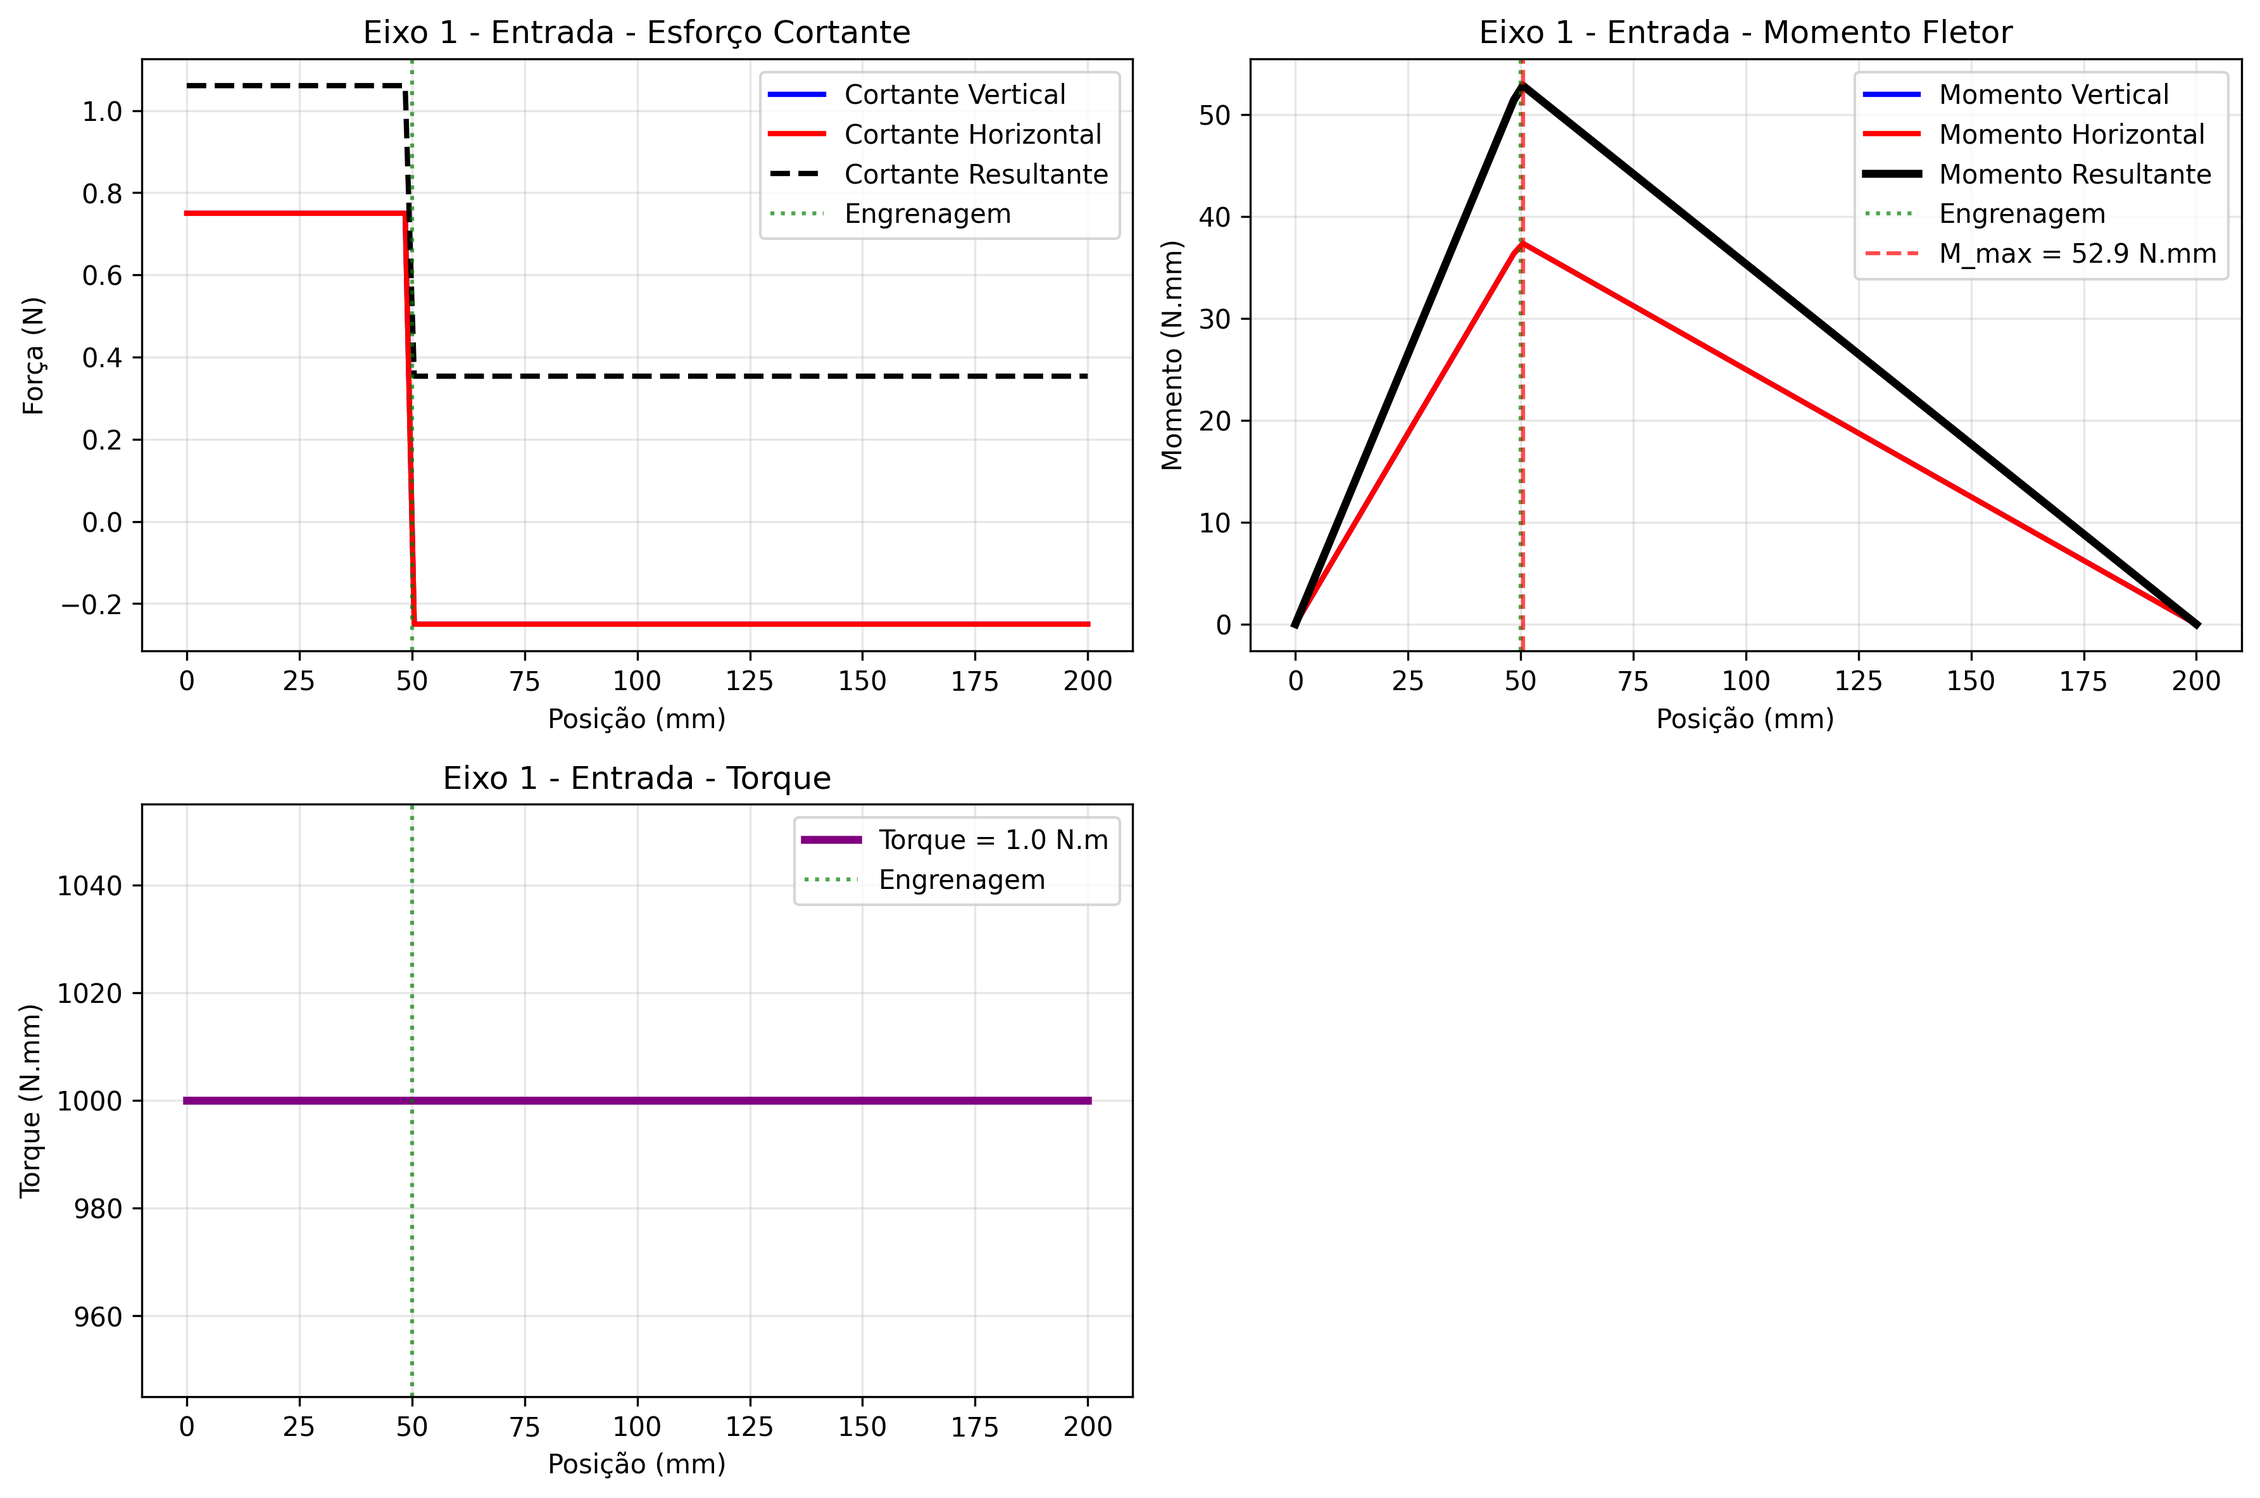
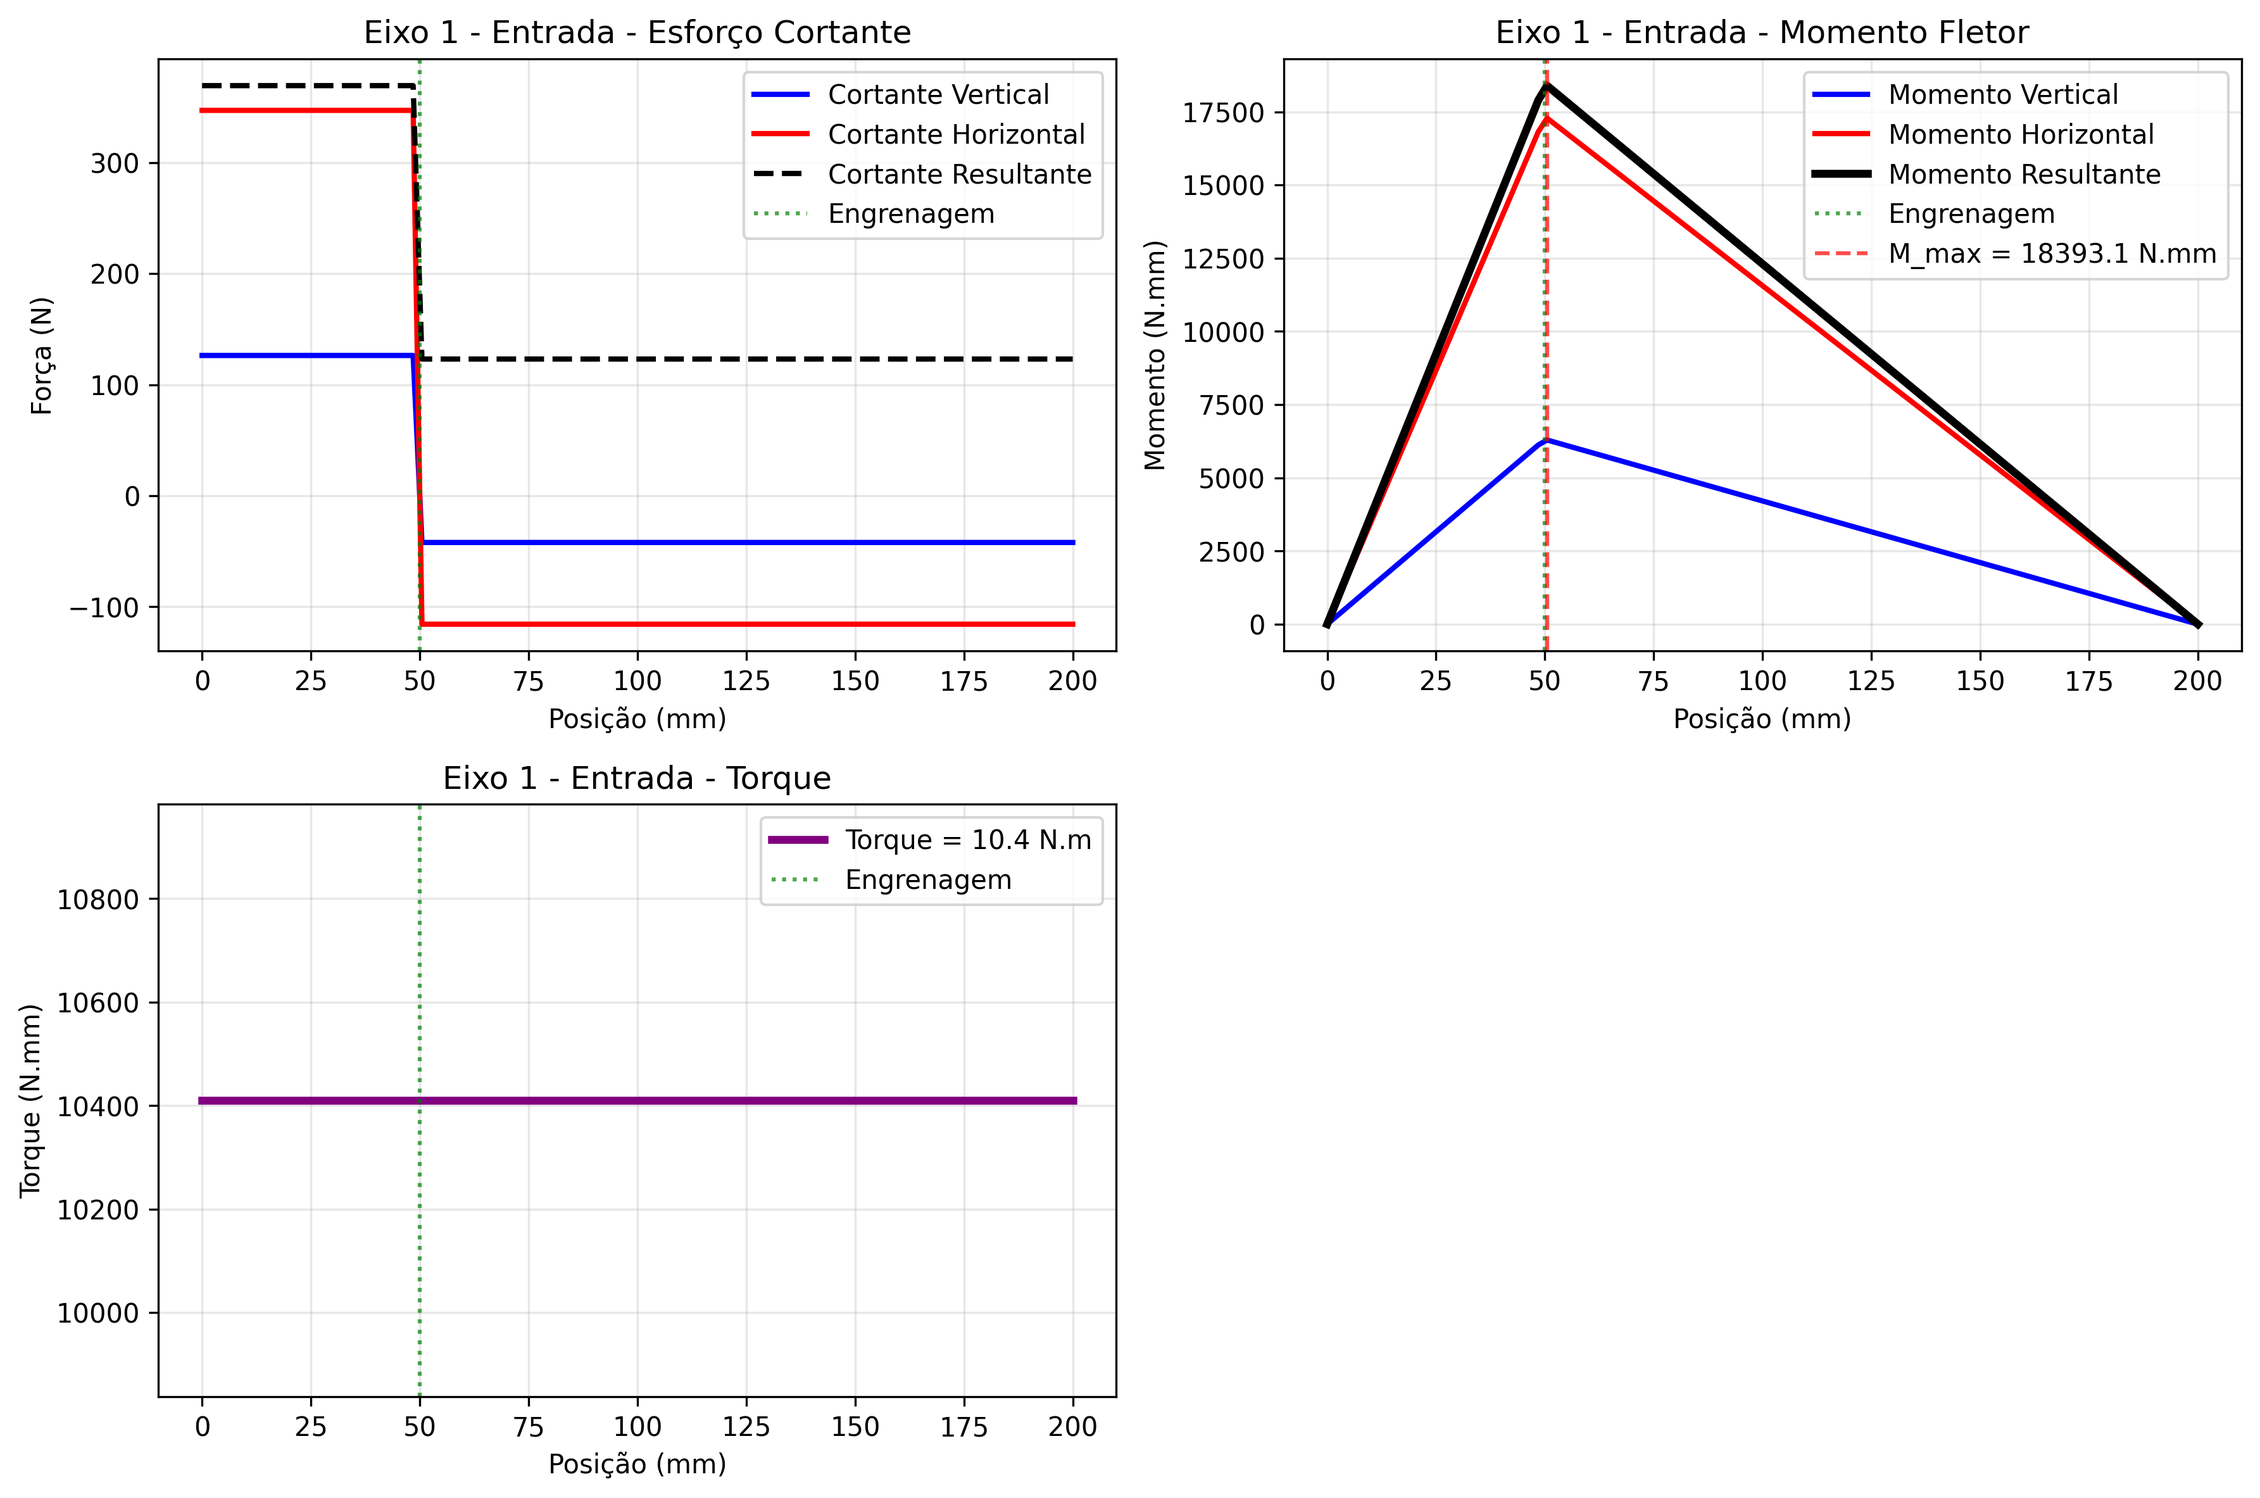
Ajustados valores de momentos e tensoes nos eixos

diff --git a/contas_eixo.py b/contas_eixo.py
@@ -4,6 +4,12 @@ import numpy as np
 
 parametros = util.ler_Estagios_Engrenagem('Outputs/Estagios_Engrenagem.txt')
 
+parametros = {
+            'parametros_eixos':{"Rotacao eixo1": 1450.0,"Torque_eixo1": 10.41,"Forca Tangencial (W_t1)": 462.46,"Forca Radial (W_r1)": 168.32," Rotacao eixo2": 395.5,"Torque_eixo2": 35.18,"Forca Tangencial (W_t_c1)": 462.46, "Forca Radial (W_r_c1)": 168.32,"Forca Tangencial (W_t_p2)": 977.10,"Forca Radial (W_r_p2)": 355.64,"Rotacao eixo3": 107.9, "Torque_eixo3": 118.91,"Forca Tangencial (W_t_c2)": 977.10,"Forca Radial (W_r_c2)": 355.64},
+}
+
+
+
 # Aço AISI 1020 Normalizado
 S_ut = 469  # MPa - Tensão de ruptura
 S_y = 390   # MPa - Tensão de escoamento
@@ -26,43 +32,43 @@ L_e3 = 200
 
 # Calcule as reações
 reações_eixo1 = eixo.calcula_reações_mancais_eixo1(
-    {'W_t': parametros['parametros_eixos']['forca_tangencial_pinhao1'], 'W_r': parametros['parametros_eixos']['forca_radial_pinhao1']},  # Pinhão 1
+    {'W_t': parametros['parametros_eixos']['Forca Tangencial (W_t1)'], 'W_r': parametros['parametros_eixos']['Forca Radial (W_r1)']},  # Pinhão 1
     distancias_eixo1
 )
 
 reações_eixo2 = eixo.calcula_reações_eixo2(
-    {'W_t': parametros['parametros_eixos']['forca_tangencial_coroa1'], 'W_r': parametros['parametros_eixos']['forca_radial_coroa1']},  # Coroa 1
-    {'W_t': parametros['parametros_eixos']['forca_tangencial_pinhao2'], 'W_r': parametros['parametros_eixos']['forca_radial_pinhao2']},  # Pinhão 2
+    {'W_t': parametros['parametros_eixos']['Forca Tangencial (W_t_c1)'], 'W_r': parametros['parametros_eixos']['Forca Radial (W_r_c1)']},  # Coroa 1
+    {'W_t': parametros['parametros_eixos']['Forca Tangencial (W_t_p2)'], 'W_r': parametros['parametros_eixos']['Forca Radial (W_r_p2)']},  # Pinhão 2
     distancias_eixo2
 )
 
 reações_eixo3 = eixo.calcula_reações_mancais_eixo1(
-    {'W_t': parametros['parametros_eixos']['forca_tangencial_coroa2'], 'W_r': parametros['parametros_eixos']['forca_radial_coroa2']},  # Coroa 2
+    {'W_t': parametros['parametros_eixos']['Forca Tangencial (W_t_c2)'], 'W_r': parametros['parametros_eixos']['Forca Radial (W_r_c2)']},  # Coroa 2
     distancias_eixo3
 )
 # EIXO 1 - ENTRADA
 resultados_eixo1 = eixo.calcula_diagramas_eixo_simples(
-    forcas_engrenagem={'W_t': parametros['parametros_eixos']['forca_tangencial_pinhao1'], 'W_r': parametros['parametros_eixos']['forca_radial_pinhao1']},
+    forcas_engrenagem={'W_t': parametros['parametros_eixos']['Forca Tangencial (W_t1)'], 'W_r': parametros['parametros_eixos']['Forca Radial (W_r1)']},
     distancias=distancias_eixo1,
-    torque=parametros['parametros_eixos']['torque_eixo1'],
+    torque=parametros['parametros_eixos']['Torque_eixo1'],
     nome_eixo="Eixo 1 - Entrada"
 )
 
 # EIXO 2 - INTERMEDIÁRIO
 resultados_eixo2 = eixo.calcula_diagramas_eixo_duplo(
-    forcas_engrenagem1={'W_t': parametros['parametros_eixos']['forca_tangencial_coroa1'], 'W_r': parametros['parametros_eixos']['forca_radial_coroa1']},  # Coroa 1
-    forcas_engrenagem2={'W_t': parametros['parametros_eixos']['forca_tangencial_pinhao2'], 'W_r': parametros['parametros_eixos']['forca_radial_pinhao2']},  # Pinhão 2
+    forcas_engrenagem1={'W_t': parametros['parametros_eixos']['Forca Tangencial (W_t_c1)'], 'W_r': parametros['parametros_eixos']['Forca Radial (W_r_c1)']},  # Coroa 1
+    forcas_engrenagem2={'W_t': parametros['parametros_eixos']['Forca Tangencial (W_t_p2)'], 'W_r': parametros['parametros_eixos']['Forca Radial (W_r_p2)']},  # Pinhão 2
     distancias=distancias_eixo2,
-    torque=parametros['parametros_eixos']['torque_eixo2'],
-    nome_eixo="Eixo 2 - Intermediário"
+    torque=parametros['parametros_eixos']['Torque_eixo2'],
+    nome_eixo="Eixo 2 - Intermediario"
 )
 
 # EIXO 3 - SAÍDA
 resultados_eixo3 = eixo.calcula_diagramas_eixo_simples(
-    forcas_engrenagem={'W_t': parametros['parametros_eixos']['forca_tangencial_coroa2'], 'W_r': parametros['parametros_eixos']['forca_radial_coroa2']},
+    forcas_engrenagem={'W_t': parametros['parametros_eixos']['Forca Tangencial (W_t_c2)'], 'W_r': parametros['parametros_eixos']['Forca Radial (W_r_c2)']},
     distancias=distancias_eixo3,
-    torque=parametros['parametros_eixos']['torque_eixo3'],
-    nome_eixo="Eixo 3 - Saída"
+    torque=parametros['parametros_eixos']['Torque_eixo3'],
+    nome_eixo="Eixo 3 - Saida"
 )
 
 # Salvar resultados para uso no dimensionamento
@@ -88,7 +94,7 @@ with open("Outputs/resultados_diagramas.txt", "w") as f:
 # Dimensionamento do EIXO 1 usando a função definida localmente
 resultado_e1 = eixo.dimensiona_eixo_por_fadiga(
     resultados_diagramas['eixo1']['M_max'],
-    parametros['parametros_eixos']['torque_eixo1'],
+    parametros['parametros_eixos']['Torque_eixo1'],
     S_ut, S_y, Se_linha,
     tipo_eixo="simples"
 )
@@ -107,7 +113,7 @@ velocidade_critica_e1 = eixo.calcula_velocidade_critica(
 # Dimensionamento do EIXO 2
 resultado_e2 = eixo.dimensiona_eixo_por_fadiga(
     resultados_diagramas['eixo2']['M_max'],
-    parametros['parametros_eixos']['torque_eixo2'],
+    parametros['parametros_eixos']['Torque_eixo2'],
     S_ut, S_y, Se_linha,
     tipo_eixo="duplo"
 )
@@ -126,7 +132,7 @@ velocidade_critica_e2 = eixo.calcula_velocidade_critica(
 # Dimensionamento do EIXO 3
 resultado_e3 = eixo.dimensiona_eixo_por_fadiga(
     resultados_diagramas['eixo3']['M_max'],
-    parametros['parametros_eixos']['torque_eixo3'],
+    parametros['parametros_eixos']['Torque_eixo3'],
     S_ut, S_y, Se_linha,
     tipo_eixo="simples"
 )
@@ -144,27 +150,27 @@ velocidade_critica_e3 = eixo.calcula_velocidade_critica(
 
 resumo_eixos = {
     "Eixo 1 (Entrada)": {
-        "Diâmetro": resultado_e1['diametro_minimo'],
+        "Diametro": resultado_e1['diametro_minimo'],
         "FS Fadiga": resultado_e1['FS_fadiga'],
         "FS Escoamento": resultado_e1['FS_escoamento'],
-        "Deflexão": deflexao_e1['deflexao_max_mm'],
-        "Status Deflexão": deflexao_e1['status_deflexao'],
+        "Deflexao": deflexao_e1['deflexao_max_mm'],
+        "Status Deflexao": deflexao_e1['status_deflexao'],
         "N_critica": velocidade_critica_e1['velocidade_critica_rpm']
     },
-    "Eixo 2 (Intermediário)": {
-        "Diâmetro": resultado_e2['diametro_minimo'],
+    "Eixo 2 (Intermediario)": {
+        "Diametro": resultado_e2['diametro_minimo'],
         "FS Fadiga": resultado_e2['FS_fadiga'],
         "FS Escoamento": resultado_e2['FS_escoamento'],
-        "Deflexão": deflexao_e2['deflexao_max_mm'],
-        "Status Deflexão": deflexao_e2['status_deflexao'],
+        "Deflexao": deflexao_e2['deflexao_max_mm'],
+        "Status Deflexao": deflexao_e2['status_deflexao'],
         "N_critica": velocidade_critica_e2['velocidade_critica_rpm']
     },
-    "Eixo 3 (Saída)": {
-        "Diâmetro": resultado_e3['diametro_minimo'],
+    "Eixo 3 (Saida)": {
+        "Diametro": resultado_e3['diametro_minimo'],
         "FS Fadiga": resultado_e3['FS_fadiga'],
         "FS Escoamento": resultado_e3['FS_escoamento'],
-        "Deflexão": deflexao_e3['deflexao_max_mm'],
-        "Status Deflexão": deflexao_e3['status_deflexao'],
+        "Deflexao": deflexao_e3['deflexao_max_mm'],
+        "Status Deflexao": deflexao_e3['status_deflexao'],
         "N_critica": velocidade_critica_e3['velocidade_critica_rpm']
     }
 }
@@ -177,20 +183,20 @@ with open("Outputs/dimensionamento_eixos.txt", "w") as f:
     f.write("DIMENSIONAMENTO DOS EIXOS - RESULTADOS FINAIS\n")
     f.write("="*60 + "\n\n")
 
-    f.write("Material: Aço AISI 1020\n")
+    f.write("Material: Aco AISI 1020\n")
     f.write(f"S_ut = {S_ut} MPa, S_y = {S_y} MPa\n")
-    f.write(f"Fator de segurança mínimo: {valor_min:2f}\n\n")
+    f.write(f"Fator de seguranca minimo: {valor_min:2f}\n\n")
 
     for eixo, dados in resumo_eixos.items():
         f.write(f"{eixo}:\n")
-        f.write(f"  Diâmetro mínimo: {dados['Diâmetro']:.1f} mm\n")
+        f.write(f"  Diametro minimo: {dados['Diametro']:.1f} mm\n")
         f.write(f"  FS Fadiga: {dados['FS Fadiga']:.2f}\n")
         f.write(f"  FS Escoamento: {dados['FS Escoamento']:.2f}\n")
-        f.write(f"  Deflexão máxima: {dados['Deflexão']:.3f} mm\n")
-        f.write(f"  Status Deflexão: {dados['Status Deflexão']}\n")
-        f.write(f"  Velocidade crítica: {dados['N_critica']:.0f} rpm\n\n")
+        f.write(f"  Deflexao maxima: {dados['Deflexao']:.3f} mm\n")
+        f.write(f"  Status Deflexao: {dados['Status Deflexao']}\n")
+        f.write(f"  Velocidade critica: {dados['N_critica']:.0f} rpm\n\n")
 
     f.write("RECOMENDAÇÕES:\n")
-    f.write("- Utilizar diâmetros comerciais (25, 30, 35, 40 mm)\n")
-    f.write("- Considerar acabamento retificado nas seções críticas\n")
-    f.write("- Implementar raios de concordância generosos nos degraus\n")
+    f.write("- Utilizar diametros comerciais (25, 30, 35, 40 mm)\n")
+    f.write("- Considerar acabamento retificado nas secoes criticas\n")
+    f.write("- Implementar raios de concordancia generosos nos degraus\n")

diff --git a/contas_cubo_eixo.py b/contas_cubo_eixo.py
@@ -1,19 +1,35 @@
 import equacoes_cubo_eixo as ce
+import contas_engrenagem as eng
+import contas_eixo as eixo
 import utilities as util
 import numpy as  np
+
+param = util.ler_Estagios_Engrenagem('Outputs/Estagios_Engrenagem.txt')
+
+
+param = {
+    'estagio_1': {'modulo': 2.5,'largura_face': 20.0,'angulo_pressao': 20.0,'razao_contato': 1.664,'pinhao_dentes': 18.0,
+'pinhao_diametro_primitivo': 45.0,'pinhao_diametro_externo': 50.0,'coroa_dentes': 66.0,'coroa_diametro_primitivo': 165.0,'coroa_diametro_externo': 170.0,'razao_transmissao': 3.667,'distancia_centros': 105.0,'b1': 20.0,'b2': 20.0
+    },
+    'estagio_2': {'modulo': 2.5,'largura_face': 22.0,'angulo_pressao': 20.0,'razao_contato': 1.664,'pinhao_dentes': 16.0,'pinhao_diametro_primitivo': 40.0,'pinhao_diametro_externo': 45.0,'coroa_dentes': 72.0,'coroa_diametro_primitivo': 180.0,'coroa_diametro_externo': 185.0,'razao_transmissao': 4.5,'distancia_centros': 110.0,'b1': 22.0,'b2': 22.0
+    },
+    'parametros_eixos': {'Parametros dos Eixos':  {"Rotacao eixo1": 1450.0,"Torque eixo1": 10.41,"Rotacao eixo2": 395.5,"Torque eixo2": 35.18,"Rotacao eixo3": 107.9,"Torque eixo3": 118.91}}
+}
+
+
 
 # VARIÁVEIS NECESSÁRIAS PARA O DIMENSIONAMENTO DE CHAVETAS
 # (Valores extraídos das fases anteriores do código)
 
 # Diâmetros dos eixos dimensionados
-diametro_eixo1 = resultado_e1['diametro_minimo']
-diametro_eixo2 = resultado_e2['diametro_minimo']
-diametro_eixo3 = resultado_e3['diametro_minimo']
+diametro_eixo1 = eixo.resultado_e1['diametro_minimo']
+diametro_eixo2 = eixo.resultado_e2['diametro_minimo']
+diametro_eixo3 = eixo.resultado_e3['diametro_minimo']
 
 # Torques nos eixos
-torque_eixo1 = parametros['parametros_eixos']['torque_eixo1']
-torque_eixo2 = parametros['parametros_eixos']['torque_eixo2']
-torque_eixo3 = parametros['parametros_eixos']['torque_eixo3']
+torque_eixo1 = param['parametros_eixos']['Torque eixo1']
+torque_eixo2 = param['parametros_eixos']['Torque eixo2']
+torque_eixo3 = param['parametros_eixos']['Torque eixo3']
 
 # Propriedades do material (Aço AISI 1020)
 S_y = 390  # MPa - Tensão de escoamento
@@ -22,11 +38,15 @@ S_ut = 469  # MPa - Tensão de ruptura
 # Fator de segurança
 C_seg = 1.5
 
+estagio_1 = param['estagio_1']
+estagio_2 = param['estagio_2']
+
+
 # Larguras das engrenagens (assumidas - seriam calculadas no PASSO 1.2)
-largura_engrenagem_eixo1 = 20  # mm
-largura_engrenagem_eixo2_coroa1 = 25  # mm
-largura_engrenagem_eixo2_pinhao2 = 20  # mm
-largura_engrenagem_eixo3 = 30  # mm
+largura_engrenagem_eixo1 = estagio_1['b1']  # mm
+largura_engrenagem_eixo2_coroa1 =estagio_1['b2']  # mm
+largura_engrenagem_eixo2_pinhao2 = estagio_2['b1']  # mm
+largura_engrenagem_eixo3 = estagio_2['b2']  # mm
 
 # ============================================================
 # APLICAÇÃO PARA TODAS AS ENGRENAGENS

diff --git a/contas_engrenagem.py b/contas_engrenagem.py
@@ -113,15 +113,15 @@ with open("Outputs/Estagios_Engrenagem.txt", "w") as f:
         f.write("\n")
         f.write("Parametros dos Eixos:\n")
 
-        f.write(f"  Rotacao (n_eixo1): {parametros['rotacao_motor']:.1f} rpm\n")
-        f.write(f"  Torque (T_eixo1): {T_in:.2f} N.m\n")
+        f.write(f"  Rotacao eixo1: {parametros['rotacao_motor']:.1f} rpm\n")
+        f.write(f"  Torque eixo1: {T_in:.2f} N.m\n")
         f.write("  Forcas no Pinhao 1 (Eixo 1):\n")
         f.write(f"    Forca Tangencial (W_t1): {resultado_estagio_1['W_t']:.2f} N\n")
         f.write(f"    Forca Radial (W_r1): {resultado_estagio_1['W_r']:.2f} N\n")
 
         # Eixo 2
-        f.write(f"  Rotacao (n_eixo2): {resultado_estagio_1['n_p_out']:.1f} rpm\n")
-        f.write(f"  Torque (T_eixo2): {resultado_estagio_1['T_p_out']:.2f} N.m\n")
+        f.write(f"  Rotacao eixo2: {resultado_estagio_1['n_p_out']:.1f} rpm\n")
+        f.write(f"  Torque eixo2: {resultado_estagio_1['T_p_out']:.2f} N.m\n")
         f.write("  Forcas da Coroa 1 (Eixo 2):\n")
         f.write(f"    Forca Tangencial (W_t_c1): {resultado_estagio_1['W_t']:.2f} N\n")
         f.write(f"    Forca Radial (W_r_c1): {resultado_estagio_1['W_r']:.2f} N\n")
@@ -130,8 +130,8 @@ with open("Outputs/Estagios_Engrenagem.txt", "w") as f:
         f.write(f"    Forca Radial (W_r_p2): {resultado_estagio_2['W_r']:.2f} N\n")
 
         # Eixo 3 Saida
-        f.write(f"  Rotacao (n_eixo3): {resultado_estagio_2['n_p_out']:.1f} rpm\n")
-        f.write(f"  Torque (T_eixo3): {resultado_estagio_2['T_p_out']:.2f} N.m\n")
+        f.write(f"  Rotacao eixo3: {resultado_estagio_2['n_p_out']:.1f} rpm\n")
+        f.write(f"  Torque eixo3: {resultado_estagio_2['T_p_out']:.2f} N.m\n")
         f.write("  Forcas da Coroa 2 (Eixo 3):\n")
         f.write(f"    Forca Tangencial (W_t_c2): {resultado_estagio_2['W_t']:.2f} N\n")
         f.write(f"    Forca Radial (W_r_c2): {resultado_estagio_2['W_r']:.2f} N\n")
